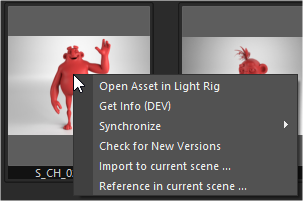
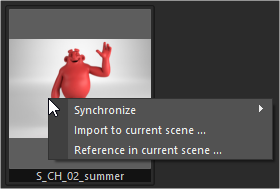
Added more documentation for Solsticer Pipelinizer Tool

diff --git a/solstice_pipeline/solstice_gui/solstice_asset.py b/solstice_pipeline/solstice_gui/solstice_asset.py
@@ -606,10 +606,8 @@ class AssetWidget(QWidget, solstice_node.SolsticeAssetNode):
         :return: QMenu
         """
         self._menu = QMenu(self)
-        self._menu.addAction('Open Asset in Light Rig')
-
-        get_info_action = QAction('Get Info (DEV)', self._menu)
-        self._menu.addAction(get_info_action)
+        # get_info_action = QAction('Get Info (DEV)', self._menu)
+        # self._menu.addAction(get_info_action)
         sync_action = QAction('Synchronize', self._menu)
         sync_menu = QMenu(self)
         sync_action.setMenu(sync_menu)
@@ -623,14 +621,14 @@ class AssetWidget(QWidget, solstice_node.SolsticeAssetNode):
         sync_shading_action = QAction('Shading', self._menu)
         sync_menu.addAction(sync_shading_action)
         self._menu.addAction(sync_action)
-        check_versions_action = QAction('Check for New Versions', self._menu)
-        self._menu.addAction(check_versions_action)
+        # check_versions_action = QAction('Check for New Versions', self._menu)
+        # self._menu.addAction(check_versions_action)
         import_asset_action = QAction('Import to current scene ...', self._menu)
         self._menu.addAction(import_asset_action)
         reference_asset_action = QAction('Reference in current scene ...', self._menu)
         self._menu.addAction(reference_asset_action)
 
-        get_info_action.triggered.connect(self.get_asset_info)
+        # get_info_action.triggered.connect(self.get_asset_info)
         sync_all_action.triggered.connect(partial(self.sync, 'all', 'all', False))
         sync_model_action.triggered.connect(partial(self.sync, 'model', 'all', False))
         sync_textures_action.triggered.connect(partial(self.sync, 'textures', 'all', False))

diff --git a/solstice_docs/docs/solsticepipeline/solsticetools/pipelinizer/assetmanager.md b/solstice_docs/docs/solsticepipeline/solsticetools/pipelinizer/assetmanager.md
@@ -1,8 +1,6 @@
 # **Assets Manager**
 
-## **Main UI**
-
-This is the main place used by all artists in Solstice Short Film to:
+This is the main tool used by all artists in Solstice Short Film to:
 
 * **Synchronize** specifics assets (get latest available version)
 * Check Assets **versions**
@@ -13,7 +11,7 @@ This is the main place used by all artists in Solstice Short Film to:
 
 ***
 
-### **Assets Viewer**
+## **Assets Viewer**
 This is the main work area of the tool, here you can select Assets and filter them by its type. At this moment all 
 short film assets are organized in 4 groups:
 
@@ -58,26 +56,222 @@ A Pipelinizer Asset shows:
 
 ***
 
-#### Asset Properties
+### Asset Properties
 
 > Summer Asset Properties
 ![Summer Asset Properties](../../../../img/asset_properties.png?style=centerme)
 
 ***
 
-#### Asset Contextual Menu
+### Asset Contextual Menu
 
-> Character Asset Contextual Menu
-![Summer Asset Contextual Menu](../../../../img/asset_contextual_menu.png?style=centerme)
+> Asset Contextual Menu
+![Asset Contextual Menu](../../../../img/asset_contextual_menu.png?style=centerme)
 
-* **Open Asset in Light Rig**: 
 
-* **Get Info(DEV)**:
+* **Synchronize**: Here you have access to options to synchronize specific asset files (working and published versions)
+    * **All**: Synchronize latest version of all asset files
+    * **Model**: Synchronize latest version of the asset model file
+    * **Textures**: Synchronize latest version of the asset textures files
+    * **Shading**: Synchronize latest version of the asset shading file
+    !!! info
+        Take into account that this contextual menu can vary depending of the asset type. For example, **character** 
+        assets also have the option to sync **grooming** files
+        
+        > Asset Contextual Menu
+        ![Charactrer Asset Groom Contextual Menu](../../../../img/solstice_asset_contextual_menu_groom.png?style=centerme)
+        
+    
+* **Import to current scene ...**: **Imports** asset **last synced published version** in scene
 
-* **Synchronize**:
+* **Reference in current scene ...**: **Reference** asset **lsat synced published version** in scene
 
-* **Check for New Versions**:
 
-* **Import to current scene ...**:
+***
 
-* **Reference in current scene ...**:
+### Asset Properties
+
+![Asset Properties](../../../../img/solstice_asset.png?style=centerme)
+
+***
+
+<center>
+
+|    |      Description      | 
+| -------- |:------------:|
+| ![Asset Properties Red](../../../../img/color_red.png?style=centerme) | Asset basic information (Name and Image) |
+| ![Asset Properties Pink](../../../../img/color_pink.png?style=centerme) | Access Quick Actions |
+| ![Asset Properties Purple](../../../../img/color_purple.png?style=centerme) | Asset Files Access |
+| ![Asset Properties Blue](../../../../img/color_blue.png?style=centerme) | Asset Files Working Version info |
+| ![Asset Properties Green](../../../../img/color_green.png?style=centerme) | Asset Files Published Version info |
+| ![Asset Properties Yellow](../../../../img/color_yellow.png?style=centerme) | Asset Description |
+| ![Asset Properties Orange](../../../../img/color_orange.png?style=centerme) | Asset create new Working/Published version buttons |
+
+
+</center>
+
+***
+
+#### **Asset Basic Info**
+
+![Asset Basic Info](../../../../img/asset_basic_info.png?style=centerme)
+
+In this section you can find two important asset infos:
+
+* **Asset Name**: This is the name of the asset with proper Solstice Pipeline Nomenclature
+* **Asset Image**: Descriptive preview image of the asset
+
+***
+
+#### **Asset Quick Actions**
+        
+![Asset Quick Actions](../../../../img/asset_quick_actions.png?style=centerme)
+
+In this section you can find 3 important quick action buttons:
+
+* **Folder**: If you press this button, the folder within your hard drive that contains the asset will be opened
+automatically. **Useful to access asset folders inside Artella directory quickly**
+
+* **Artella**: If you press this button, the Artella asset path will be opened in your default we browser.
+**Useful to access asset Artella files quickly**
+
+* **Check**: If you press this button, the asset working and published files version will be checked. This will update:
+    1. Updates all file access state buttons (shows the user which files are locked by others)
+    2. Updates working/published version info (shows the user which versions of the asset files are sync locally)
+    
+    > This dialog will appear while Check process is being executed ...
+    ![Check Quick Action](../../../../img/asset_check_button.png?style=centerme)
+
+    
+    !!! warning ""
+        This process can take a while to complete
+        
+***
+
+#### **Asset File Access**
+
+![Asset File Access](../../../../img/asset_file_access.png?style=centerme)
+
+In this section you can access to all asset files. This section is divided into 2 categories:
+
+1. **Working**: In this category you can access to all assets files that are versioned as working verions (versions that
+are not ready to be used in production yet).
+
+2. **Published**: In this category you can access to all assets files that are versioned as published versions (versions
+that are ready to be used in production).
+
+By pressing on the buttons you will open the different files
+
+If you click in a button and the file is not opened, that means that the file does not exists in your locally (in 
+your hard drive). This can be caused by:
+
+* You have not synced the asset files (so you will need to synchronize them)
+* The file has not that files created yet (this is quite usual when an asset has not published versions yet)
+
+***
+
+!!! info "Lock/Unlock files"
+    When working with files (specially with working versions), you can lock files so other Solstice artists cannot 
+    modify your file accidentally. You can lock/unlock (unlock your locked files) directly in this section (without the 
+    need of going to Artella webpage) following next steps:
+    
+    > Press Check button, to update the lock/ulnock the status file of your files
+    ![Asset File Lock 0](../../../../img/asset_lock_0.png?style=centerme)
+    
+    > Lock/Unlock buttons will appear under the file buttons
+    ![Asset File Lock 1](../../../../img/asset_lock_1.png?style=centerme)
+    
+    ***
+    
+    ##### Lock/Unlock States
+    
+    <center>
+    
+    | Button State   |      Description      | 
+    | :--------: |:------------:|
+    | ![Unlock Button](../../../../img/unlock_button.png?style=centerme) | Asset file is not locked by anyone. Click on it to lock it. |
+    | ![Lock Button](../../../../img/lock_button.png?style=centerme) | Asset file is locked by you. Click on it to unlock the file |
+    | ![Other user locked](../../../../img/file_lock_button.png?style=centerme) | Asset file is locked by other user. File can't be lock until the other user unlock it |
+    | ![Not available](../../../../img/file_not_found_button.png?style=centerme) | Asset file does not exists in Artella server yet |
+    
+    </center>
+    
+***
+
+#### **Asset Files Versions Info**
+
+This section is divided into 2 parts:
+
+1. **Working** asset files version info
+2. **Published** asset files version info
+
+Those sections shows the following info:
+
+* **Visual guide** showing the **status** of a specific asset file
+* **Current version** of the file **locally** (in your hard drive)
+* **Latest version** file in Artella
+* Button that shows **more info** of the asset file (textures files associated, etc)
+
+!!! bug
+    Sometimes **working** version info is not updated properly and will appear as invalid. Future version will have this 
+    bug fixed.    
+
+> Each asset file will be added to the info section
+![Asset File Info](../../../../img/asset_info.png?style=centerme)
+
+***
+
+##### Status Icon
+
+|   |      Description      | 
+| :--------: |:------------:|
+| ![Ok status](../../../../img/ok.png?style=centerme) |Asset file is valid. In **published section**, this means that asset file is ready for production |
+| ![Warning status](../../../../img/warning.png?style=centerme) | Asset file has something wrong in it. **Contact TD for more info about how to solve this** |
+| ![Error status](../../../../img/error.png?style=centerme) | Asset file does not exists yet |
+
+##### File Category
+
+Each asset file has a category:
+
+* **MODEL**: This is the file that contains the model and rig of the asset
+* **SHADING**: This is the file that contains shading version of the asset with all the asset shaders
+* **TEXTURES**: Collection of textures used by asset shaders
+
+!!! info "Custom asset files"
+    Some asset type, such as characters, can have other file types such as for example:
+    
+    * **GROOM**: This is the file that contains groom info for the character
+    
+    
+##### File Versions
+
+|   |      Description      | 
+| :--------: |:------------:|
+| ![Local version](../../../../img/hdd.png?style=centerme) | This is the file asset version that is located locally (in your hard drive) |
+| ![Artella version](../../../../img/artella.png?style=centerme) | This is the file asset version that is located in Artella server |
+
+With this info you can have different scenarios:
+
+* Your Local version is lower than Artella version: This means that you need to **sync** the asset file because exist a **newer** version in Artella server
+* Your Local version is the **same** as Artella version: This means that you have the **latest** available version synced in your computer
+
+##### More Info
+
+This button will popup a new window that shows more info about the asset file
+
+!!! bug
+    This button is not used at this moment and maybe will removed in future versions of the tool
+
+***
+
+#### **New Version Buttons**
+
+![Asset File Info](../../../../img/new_version_buttons.png?style=centerme)
+
+Those buttons are used to create new **working** versions and to **publish** assets
+
+For more info about how to create new version and publish assets please go to the following link: **ADD LINK**
+
+
+    
+    

diff --git a/solstice_docs/docs/solsticepipeline/solsticetools/pipelinizer/sequencesmanager.md b/solstice_docs/docs/solsticepipeline/solsticetools/pipelinizer/sequencesmanager.md
@@ -1,0 +1,27 @@
+# **Sequences Manager**
+
+!!! important
+    Sequences Manager is not available as soon you open Solstice Pipelinizer. You need to wait some seconds until
+    is available. 
+    
+    > Solstice Sequencer Loading
+    ![Solstice Sequencer Loading](../../../../img/sequences_loading.png?style=centerme)
+    
+    You will notice that Sequences Manager is loading because its tabs is not enabled and Loading text appears. As soon
+    everything is ready, the tab will be enabled and only **Sequences Manager** text will appear
+    
+    > Solstice Sequencer Loaded
+    ![Solstice Sequencer Loaded](../../../../img/sequences_loaded.png?style=centerme)
+    
+***
+
+This is the main tool used by all artists in Solstice Short Film to:
+
+* **Synchronize** specific sequences and shots in a sequence
+* Check sequences and shots **versions**
+* **Upload** to Artella server new in progress version for shots
+* **Publish** shots/sequences files
+* **Open** specific shots
+
+***
+
